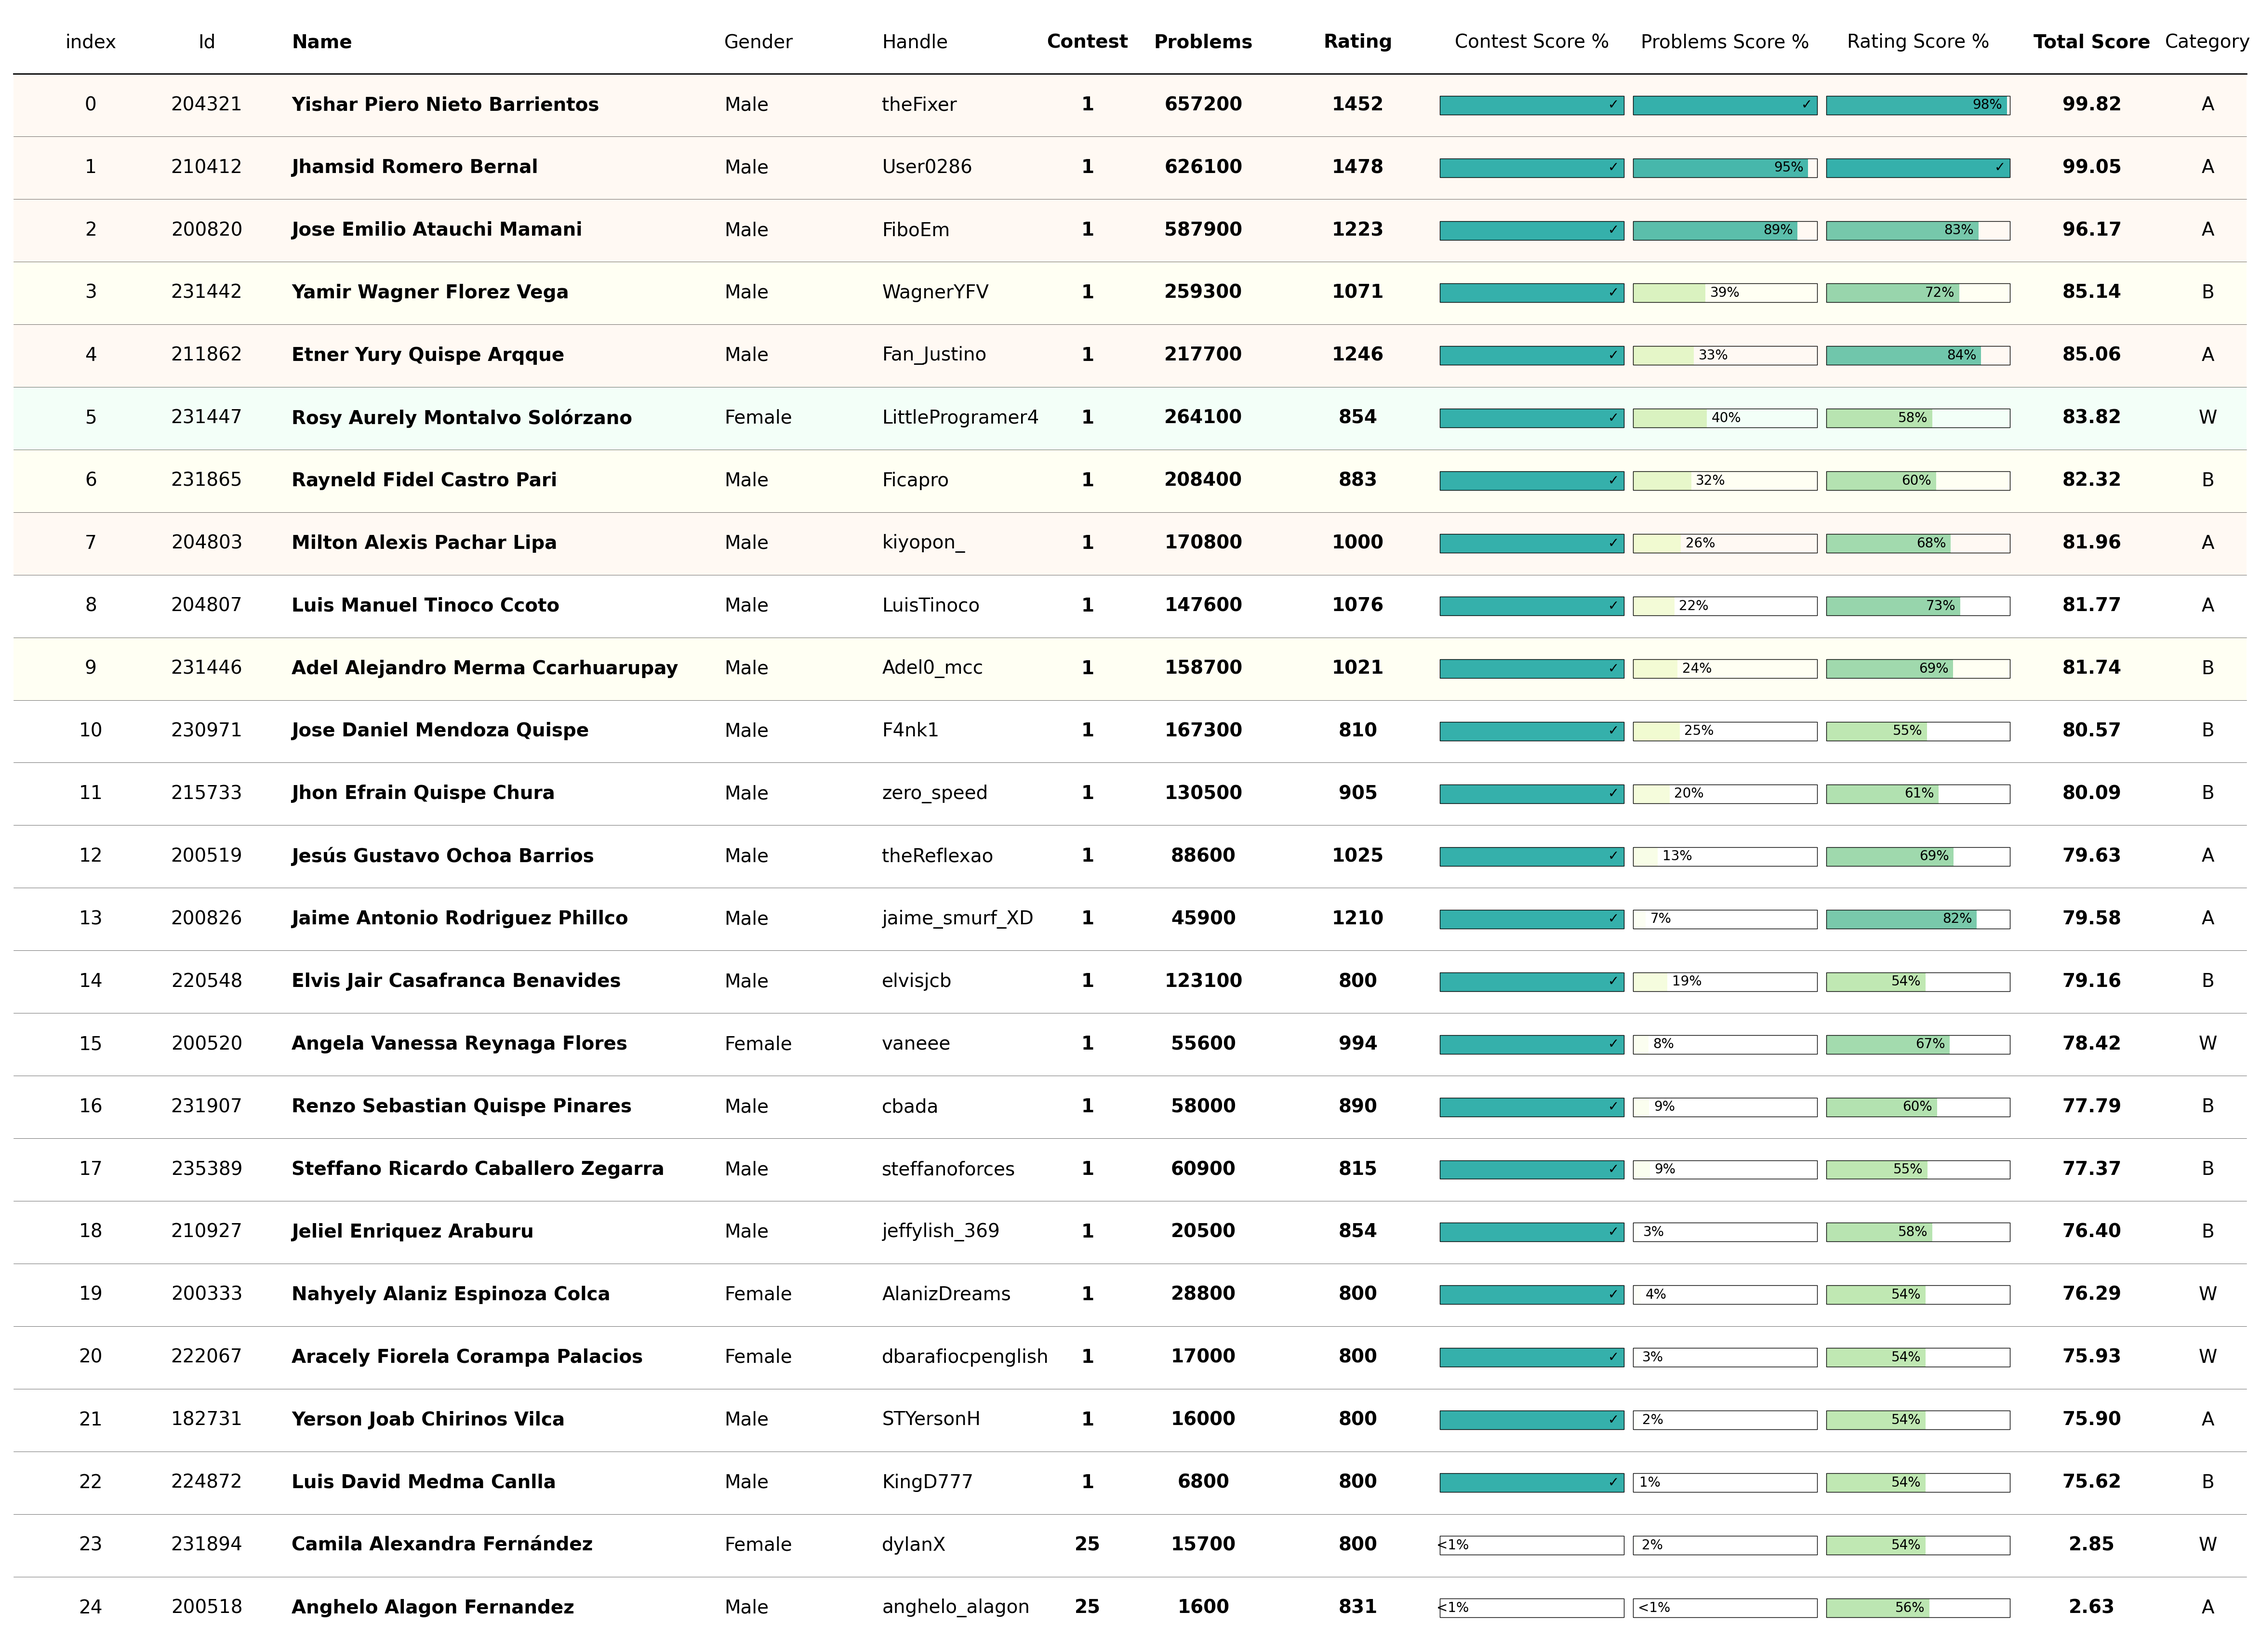
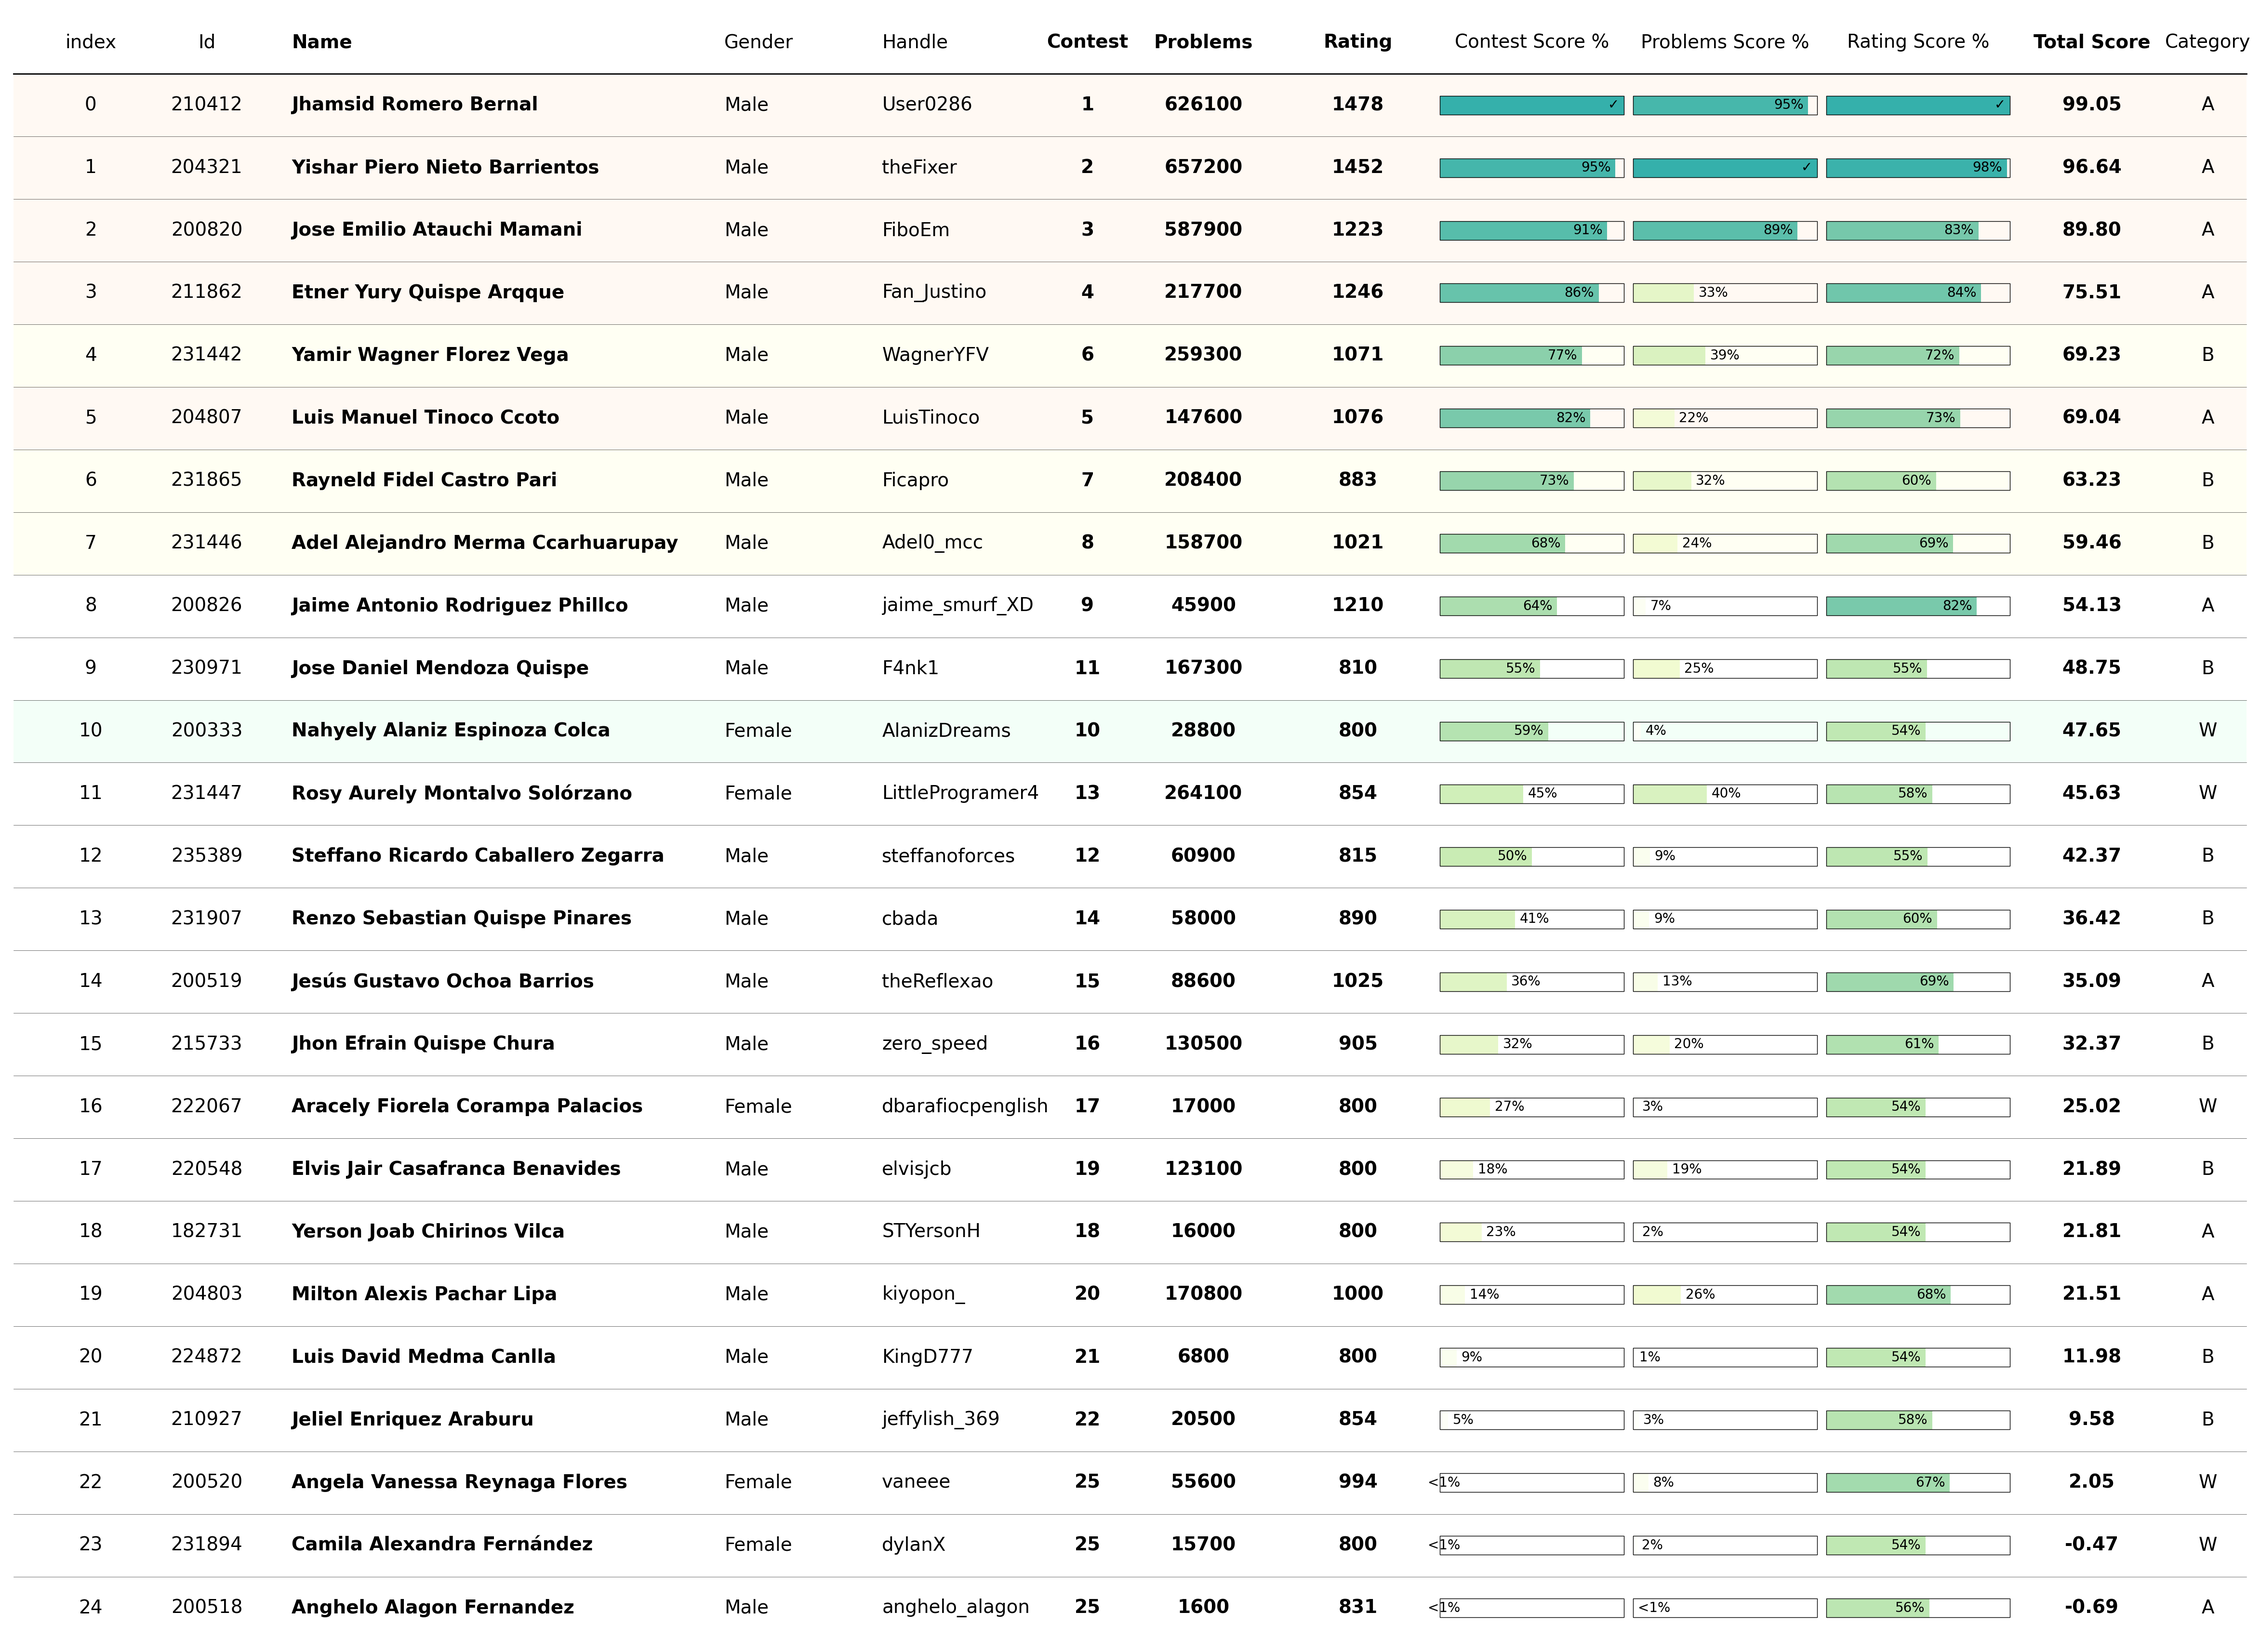
final ranking

diff --git a/ranking/selection/training-camp-argentina-2024/report.md b/ranking/selection/training-camp-argentina-2024/report.md
@@ -45,8 +45,24 @@ The complete ranking information generated by the script for the selection of st
 
 The final list of students selected by category is summarized in the following table:
 
-| Rank | Id | Name | Attend | Category |
-| - | - | - | - | - |
+| Rank | Id | Name | Attend |
+| - | - | - | - |
+| 1 | 210412 | Jhamsid Romero Bernal | Yes/No? |
+| 2 | 204321 | Yishar Piero Nieto Barrientos | Yes/No? |
+| 3 | 200820 | Jose Emilio Atauchi Mamani | Yes/No? |
+| 4 | 211862 | Etner Yury Quispe Arqque | Yes/No? |
+| 6 | 204807 | Luis Manuel Tinoco Ccoto | Yes/No? |
+
+| Rank | Id | Name | Attend |
+| - | - | - | - |
+| 5 | 231442 | Yamir Wagner Florez Vega | Yes/No? |
+| 7 | 231865 | Rayneld Fidel Castro Pari | Yes/No? |
+| 8 | 231446 | Adel Alejandro Merma Ccarhuarupay | Yes/No?|
+
+| Rank | Id | Name | Attend |
+| - | - | - | - |
+| 10 | 200333 | Nahyely Alaniz Espinoza | Yes/No? |
+
 
 ## Next steps
 - Register for the Training Camp Argentina 2024 through the [Google Forms](https://docs.google.com/forms/d/e/1FAIpQLSdLZTFTqlv4tptvv-tZQtWJkfWPlHRk6thsUQUUmtC8Hm4lDw/viewform)
